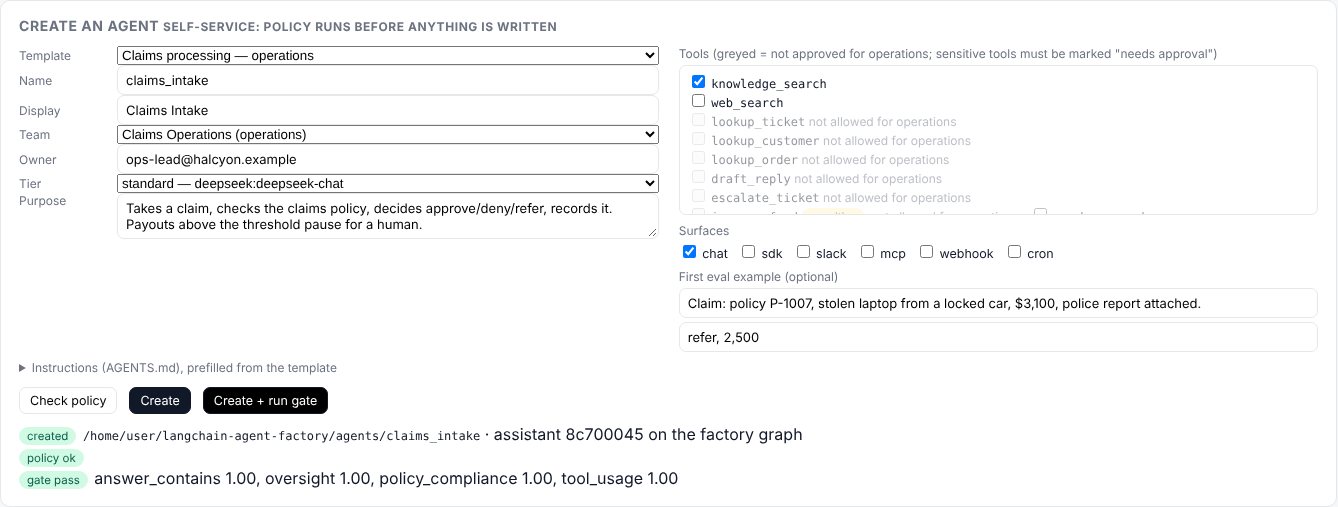
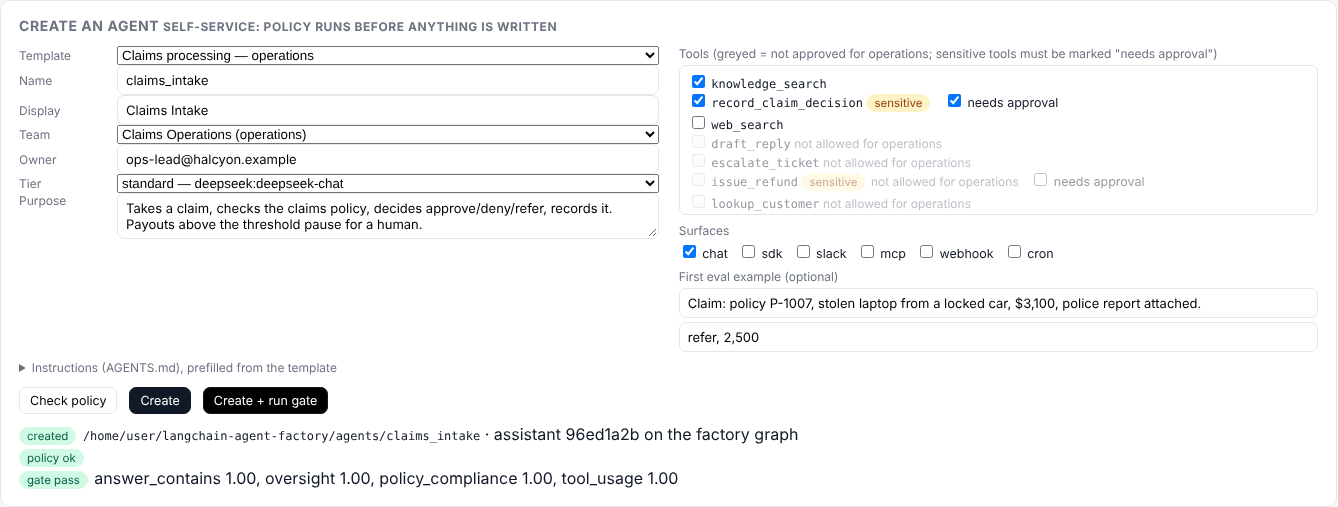
Console: list allowed tools first in the create form
Claude-Session: https://claude.ai/code/session_01AUoePT5XCitDd4gkj5xJcJ

Changed region(s): [[0.5209, 0.1775, 0.7967, 0.4438], [0.429, 0.8284, 0.6129, 0.8876], [0.7967, 0.355, 0.858, 0.3846]]

diff --git a/src/agent_factory/surfaces/console.html b/src/agent_factory/surfaces/console.html
@@ -246,7 +246,12 @@ function renderToolPicker(){
   if(!REG) return; const team = $('#nTeam').value;
   const tpl = REG.templates.find(t => t.key === $('#nTemplate').value);
   const chosen = new Set(tpl ? tpl.tools : ['knowledge_search']); const approve = new Set(tpl ? tpl.approve : []);
-  $('#toolPicker').innerHTML = REG.tools.map(t => {
+  const ordered = [...REG.tools].sort((a, b) => {
+    const al = x => !x.teams.length || x.teams.includes(team);
+    const rank = x => (al(x) ? (chosen.has(x.name) ? 0 : 1) : 2);
+    return rank(a) - rank(b) || a.name.localeCompare(b.name);
+  });
+  $('#toolPicker').innerHTML = ordered.map(t => {
     const allowed = !t.teams.length || t.teams.includes(team);
     return `<label style="display:block;opacity:${allowed?1:.45}" title="${esc(t.description)}">
       <input type="checkbox" name="tool" value="${esc(t.name)}" ${chosen.has(t.name)?'checked':''} ${allowed?'':'disabled'}>
